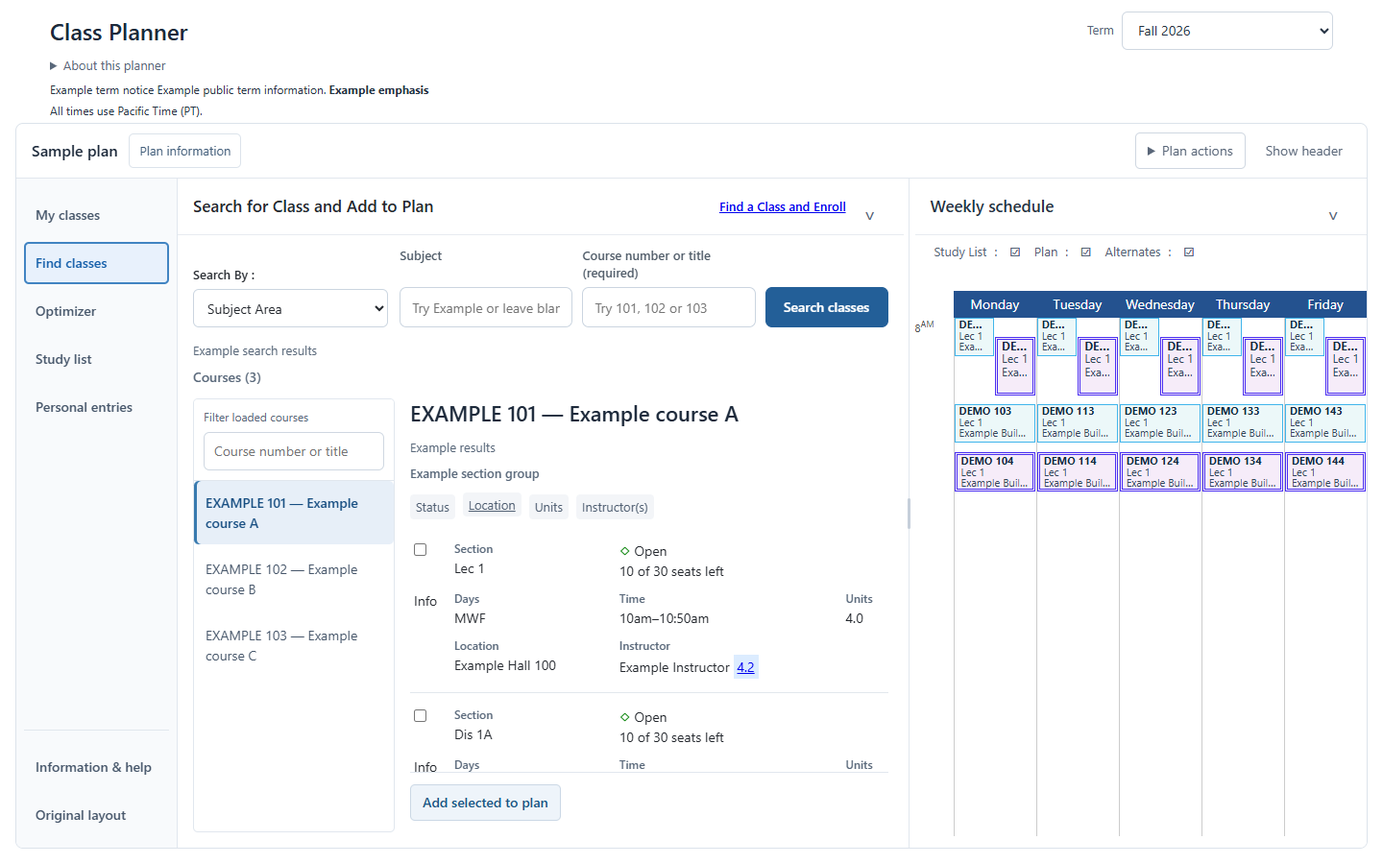
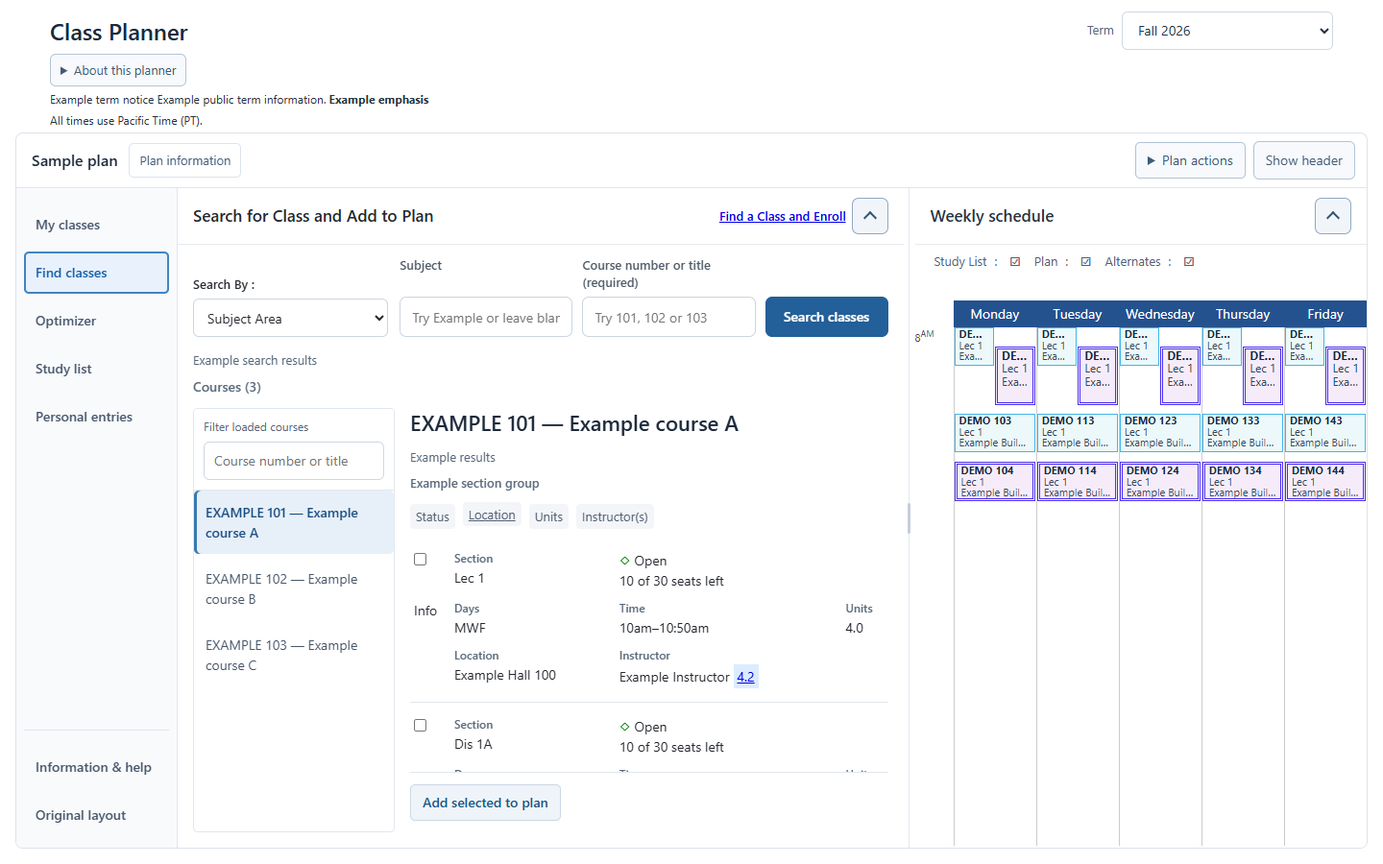
Make planner disclosures and actions visibly clickable (v0.17.8)

diff --git a/site/workspace-preview.html b/site/workspace-preview.html
@@ -1,6 +1,6 @@
 <!DOCTYPE html><html lang="en" data-pl-fictional-preview="true"><head><meta http-equiv="Content-Security-Policy" content="default-src 'none'; script-src 'nonce-pl-fictional-preview'; style-src 'unsafe-inline'; img-src data:; connect-src 'none'; form-action 'none'; base-uri 'none'; object-src 'none'; frame-src 'none'">
 <meta charset="utf-8">
-<title>Better MyUCLA · v0.17.7 fictional preview</title>
+<title>Better MyUCLA · v0.17.8 fictional preview</title>
 <style>
   body { margin:0; background:#fff; color:#4e4e4e; font-family: Verdana, Geneva, sans-serif; font-size:12px; }
   .pagehead { padding:14px 24px; border-bottom:3px solid #0055a6; }
@@ -84,7 +84,7 @@
   #panelSearch .ClassSearchList .data_row:nth-child(even) > [class*="span"] { background:#eaeaea; }
   .ClassSearchList .example-native-rating { display:inline-block; padding:2px 4px; background:#dcecff; }
   .ClassSearchList .icon-unlock::before { content:"◇"; }
[2 lines of base64/hex data omitted]
    Tokens are read off the live Class Planner so the injected controls read as
    part of MyUCLA rather than as a strip bolted on top of it. Measured on the
    real page: section title bars are #2C5E91 with a 7px radius, course titles
@@ -1507,7 +1507,8 @@ section#layoutContentArea.pl-planner-introduction {
   font-size: 24px; font-weight: 600; line-height: 40px;
 }
 .pl-planner-introduction > #div_page_title_section2 { margin: 0 270px 4px 0; }
-.pl-intro-about > summary { display: list-item; width: fit-content; color: #59687a; font-size: 13px; line-height: 24px; cursor: pointer; }
+.pl-intro-about > summary { display: list-item; width: fit-content; box-sizing: border-box; min-height: 34px; padding: 5px 10px; border: 1px solid #b3c3d4; border-radius: 6px; background: #f7f9fc; color: #405b77; font-size: 13px; line-height: 22px; cursor: pointer; }
+.pl-intro-about > summary:hover, .pl-intro-about[open] > summary { border-color: #7895b3; background: #eaf1f9; }
 .pl-intro-about > summary:focus-visible { outline: 2px solid #4184c2; outline-offset: 3px; }
 .pl-intro-about > #page_title_text { margin: 6px 0 8px; padding: 0; font-size: 13px; line-height: 1.5; color: #62738a; }
 .pl-planner-introduction > layout-columnwrapper.col-2MR { display: block; width: 100%; }
@@ -1525,7 +1526,8 @@ section#layoutContentArea.pl-planner-introduction {
   box-sizing: border-box; overflow: auto; margin: 0; padding: 44px 12px 12px;
   border: 1px solid #d9e0e8; border-radius: 10px; background: #fff; box-shadow: 0 8px 30px #20304024;
 }
-.pl-intro-sidebar button.pl-intro-info-close { position: absolute; top: 0; right: 0; width: 44px; height: 44px; margin: 0; padding: 0; border: 0; border-radius: 7px; background: transparent; color: #345577; font: 26px/1 sans-serif; cursor: pointer; }
+.pl-intro-sidebar button.pl-intro-info-close { position: absolute; top: 4px; right: 4px; box-sizing: border-box; width: 44px; height: 44px; margin: 0; padding: 0; border: 1px solid #91a8c0; border-radius: 7px; background: #f1f5fa; color: #315776; font: 26px/1 sans-serif; cursor: pointer; }
+.pl-intro-sidebar button.pl-intro-info-close:hover { border-color: #5f82a6; background: #e4eef9; }
 .pl-intro-info-close:focus-visible { outline: 2px solid #4184c2; outline-offset: -3px; }
 .pl-workspace-host #classPlanHeader { grid-column: 1; grid-row: 1; align-self: center; display: flex; align-items: center; flex-wrap: wrap; gap: 6px 12px; min-width: 0; margin: 0; padding: 10px 16px; color: #1d2a3b; font: 600 16px/1.4 -apple-system,BlinkMacSystemFont,"Segoe UI",sans-serif; }
 .pl-workspace-host #classPlanHeader h2, .pl-workspace-host #classPlanHeader h3, .pl-workspace-host #classPlanHeader h4 { margin: 0; color: inherit; font: inherit; }
@@ -1545,7 +1547,7 @@ section#layoutContentArea.pl-planner-introduction {
   background: #f0f3f6; color: #4b5b6f; font: 14px/1.4 -apple-system,BlinkMacSystemFont,"Segoe UI",sans-serif; cursor: pointer;
 }
 .pl-workspace-top button:hover, .pl-workspace-top summary:hover { background: #eaf0f6; }
-.pl-workspace-top > button, .pl-workspace-top > details > summary { background: transparent; color: #596678; }
+.pl-workspace-top > button, .pl-workspace-top > details > summary { border-color: #b3c3d4; background: #f7f9fc; color: #405b77; }
 .pl-workspace-top button:focus-visible, .pl-pane-toggle:focus-visible, .pl-browser-toolbar button:focus-visible, .pl-browser-index button:focus-visible { outline: 2px solid #4184c2; outline-offset: 2px; }
 .pl-workspace-shell { grid-column: 1 / -1; grid-row: 3; display: grid; grid-template-columns: 168px minmax(0,1fr); min-height: 0; min-width: 0; border-top: 1px solid #e1e7ee; }
 .pl-workspace-nav { display: flex; flex-direction: column; min-height: 0; padding: 16px 8px 12px; box-sizing: border-box; background: #f8fafc; border-right: 1px solid #e1e7ee; }
@@ -1584,9 +1586,18 @@ section#layoutContentArea.pl-planner-introduction {
 }
 .pl-workspace-main > section > .pl-pane-title > .popover.clickover > .arrow { display: none; }
 .pl-pane-title > button.planSectionToggle { flex: 1; min-width: 0; min-height: 38px; padding: 0; text-align: left; color: inherit; background: transparent; border: 0; font: inherit; }
+.pl-pane-title > button.planSectionHelpTip { box-sizing: border-box; min-width: 32px; min-height: 32px; margin: 0; padding: 5px; border: 1px solid #b3c3d4; border-radius: 6px; background: #f7f9fc; color: #405b77; cursor: pointer; }
+.pl-pane-title > button.planSectionHelpTip:hover { border-color: #7895b3; background: #eaf1f9; }
+.pl-pane-title > button.planSectionHelpTip:focus-visible { outline: 2px solid #3477b5; outline-offset: 2px; }
 .pl-pane-title > button.planSectionToggle > .icon-minus-sign, .pl-pane-title > button.planSectionToggle > .icon-plus-sign { display: none; }
-.classPlannerWrapper .pl-pane-title > button.pl-pane-toggle { flex: none; display: inline-flex; align-items: center; justify-content: center; width: 38px; height: 38px; padding: 0; margin-left: auto; border: 0; border-radius: 6px; background: transparent; color: #59687a; font: 22px/1 -apple-system,BlinkMacSystemFont,"Segoe UI",sans-serif; cursor: pointer; }
-.pl-pane-title > button.pl-pane-toggle:hover { background: #edf2f7; }
+.classPlannerWrapper .pl-pane-title > button.pl-pane-toggle { flex: none; display: inline-flex; align-items: center; justify-content: center; box-sizing: border-box; width: 38px; height: 38px; padding: 0; margin-left: auto; border: 1px solid #91a8c0; border-radius: 7px; background: #f1f5fa; color: #315776; font-size: 0; cursor: pointer; }
+/* Draw a consistent chevron instead of the tiny font-dependent down character.
+   The real button retains its accessible label, title and expanded state. */
+.classPlannerWrapper .pl-pane-title > button.pl-pane-toggle::before { content: ""; width: 8px; height: 8px; border-right: 2px solid currentColor; border-bottom: 2px solid currentColor; transform: translateY(-2px) rotate(45deg); }
+.classPlannerWrapper .pl-pane-title > button.pl-pane-toggle[aria-expanded="true"]::before { transform: translateY(2px) rotate(225deg); }
+.classPlannerWrapper .pl-pane-title > button.pl-pane-toggle:hover { border-color: #5f82a6; background: #e4eef9; color: #174e82; }
+.classPlannerWrapper .pl-pane-title > button.pl-pane-toggle:active { background: #d5e5f5; }
+.classPlannerWrapper .pl-pane-title > button.pl-pane-toggle:focus-visible { outline: 3px solid #3477b5; outline-offset: 2px; }
 .pl-pane-collapsed > .pl-pane-body { display: none !important; }
 .pl-workspace-plan.pl-pane-open > .pl-pane-body:not(.hidden):not([hidden]), .pl-workspace-search.pl-pane-open > .pl-pane-body:not(.hidden):not([hidden]), .pl-workspace-calendar.pl-pane-open > .pl-pane-body:not(.hidden):not([hidden]) { display: block; }
 .pl-workspace-main > .pl-module-active:not(.pl-workspace-plan):not(.pl-workspace-search) { overflow: auto; }
@@ -1594,7 +1605,9 @@ section#layoutContentArea.pl-planner-introduction {
 .pl-workspace-information-placeholder { padding: 24px; color: #59687a; }
 .pl-workspace-information-placeholder:not(.pl-module-active) { display: none; }
 /* Opaque secondary modules retain their own server-backed disclosures. */
-.pl-workspace-main > :is(.classPlanner_ClassOptimizerSection,.classPlanner_EnrolledNotInPlanSection,.classPlanner_PersonalTimeBlocksSection) > .pl-pane-title > button.planSectionToggle { display: flex; align-items: center; gap: 10px; cursor: pointer; order: 0; }
+.pl-workspace-main > :is(.classPlanner_ClassOptimizerSection,.classPlanner_EnrolledNotInPlanSection,.classPlanner_PersonalTimeBlocksSection) > .pl-pane-title > button.planSectionToggle { display: flex; align-items: center; gap: 10px; box-sizing: border-box; padding: 7px 10px; border: 1px solid #b3c3d4; border-radius: 6px; background: #f7f9fc; cursor: pointer; order: 0; }
+.pl-workspace-main > :is(.classPlanner_ClassOptimizerSection,.classPlanner_EnrolledNotInPlanSection,.classPlanner_PersonalTimeBlocksSection) > .pl-pane-title > button.planSectionToggle:hover { border-color: #7895b3; background: #eaf1f9; }
+.pl-workspace-main > :is(.classPlanner_ClassOptimizerSection,.classPlanner_EnrolledNotInPlanSection,.classPlanner_PersonalTimeBlocksSection) > .pl-pane-title > button.planSectionToggle:focus-visible { outline: 2px solid #3477b5; outline-offset: 2px; }
 .pl-workspace-main > :is(.classPlanner_ClassOptimizerSection,.classPlanner_EnrolledNotInPlanSection,.classPlanner_PersonalTimeBlocksSection) > .pl-pane-title > button.planSectionToggle > :is(.icon-plus-sign,.icon-minus-sign) { display: inline-block; flex: none; color: #52677e; }
 .pl-workspace-main > :is(.classPlanner_ClassOptimizerSection,.classPlanner_EnrolledNotInPlanSection,.classPlanner_PersonalTimeBlocksSection) > .pl-pane-title > button.planSectionHelpTip { order: 1; }
 .pl-workspace-main > .classPlanner_ClassOptimizerSection > #panelOptimizer { box-sizing: border-box; padding: 20px; }
@@ -1676,9 +1689,11 @@ section#layoutContentArea.pl-planner-introduction {
 .pl-workspace-plan tbody.courseItem > tr:nth-child(2), .pl-workspace-plan tbody.courseItem > tr:nth-child(3) { display: none; }
 .pl-workspace-plan button.pl-workspace-detail-button, .pl-workspace-plan button.pl-workspace-actions-button { box-sizing: border-box; min-height: 38px; padding: 8px 10px; margin: 0; border: 1px solid #cbd8e5; border-radius: 5px; font: 500 13px/1.4 -apple-system,BlinkMacSystemFont,"Segoe UI",sans-serif; cursor: pointer; }
 .pl-workspace-plan button.pl-workspace-detail-button { color: #1c5688; background: #eef4fa; }
-.pl-workspace-plan button.pl-workspace-actions-button { margin-left: auto; color: #59687a; border-color: transparent; background: transparent; }
+.pl-workspace-plan button.pl-workspace-actions-button { display: inline-flex; align-items: center; justify-content: center; gap: 8px; margin-left: auto; color: #405b77; border-color: #b3c3d4; background: #f7f9fc; }
+.pl-workspace-plan button.pl-workspace-actions-button::after { content: ""; flex: none; width: 6px; height: 6px; border-right: 1.5px solid currentColor; border-bottom: 1.5px solid currentColor; transform: translateY(-2px) rotate(45deg); }
+.pl-workspace-plan button.pl-workspace-actions-button[aria-expanded="true"]::after { transform: translateY(2px) rotate(225deg); }
 .pl-workspace-plan button.pl-workspace-detail-button:hover, .pl-workspace-plan button.pl-workspace-detail-button[aria-expanded="true"] { background: #dfebf6; border-color: #adc5da; }
-.pl-workspace-plan button.pl-workspace-actions-button:hover, .pl-workspace-plan button.pl-workspace-actions-button[aria-expanded="true"] { background: #f0f3f6; color: #263344; }
+.pl-workspace-plan button.pl-workspace-actions-button:hover, .pl-workspace-plan button.pl-workspace-actions-button[aria-expanded="true"] { border-color: #7895b3; background: #eaf1f9; color: #174e82; }
 .pl-workspace-plan button.pl-workspace-detail-button:focus-visible, .pl-workspace-plan button.pl-workspace-actions-button:focus-visible { outline: 2px solid #4184c2; outline-offset: 2px; }
 .pl-workspace-plan .pl-conflict-badge, .pl-workspace-plan .pl-tag-badge { white-space: normal; max-width: 100%; margin-left: 0; font: 12px/1.5 -apple-system,BlinkMacSystemFont,"Segoe UI",sans-serif; }
 .pl-workspace-plan #plannerSectionClip { gap: 4px; }
@@ -1855,6 +1870,7 @@ section#layoutContentArea.pl-planner-introduction {
 .pl-section-field input[type="checkbox"], .pl-section-field input[type="radio"] { width: auto !important; height: auto; margin: 0; }
 .pl-workspace-plan-actions { position: relative; flex: none; margin: 0; }
 .pl-workspace-plan-actions > summary { min-height: 38px; padding: 8px 12px; box-sizing: border-box; border: 1px solid #cfd7e1; border-radius: 5px; background: #fff; color: #46566a; cursor: pointer; }
+.pl-workspace-plan-actions[open] > summary { border-color: #7895b3; background: #eaf1f9; color: #174e82; }
 .pl-workspace-plan-actions > .plannerTopMenuLinks { display: none; }
 .pl-workspace-plan-actions[open] > .plannerTopMenuLinks { display: flex; flex-direction: column; gap: 4px; position: absolute; top: calc(100% + 4px); right: 0; z-index: 180; width: 220px; max-width: calc(100vw - 48px); max-height: var(--pl-plan-menu-max-height,60dvh); overflow: auto; overscroll-behavior: contain; padding: 8px; margin: 0; box-sizing: border-box; border: 1px solid #dce3eb; border-radius: 6px; background: #fff; box-shadow: 0 8px 24px #2030401a; text-align: left; }
 .pl-workspace-plan-actions .plannerTopMenuLinks > :is(a,button) { display: block; flex: none; min-height: 36px; padding: 8px 10px; box-sizing: border-box; color: #345c85; font: 14px/1.4 -apple-system,BlinkMacSystemFont,"Segoe UI",sans-serif; text-align: left; }
@@ -1880,13 +1896,15 @@ section#layoutContentArea.pl-planner-introduction {
 @media print { .pl-workspace-host > .pl-plan-action-surface { display: none !important; } }
 .pl-workspace-preview { display: flex; flex-direction: column; position: relative; box-sizing: border-box; height: auto; padding: 0 0 16px; margin-bottom: 8px; background: #fff; border-bottom: 1px solid #e7ebf0; }
 .pl-workspace-preview[hidden] { display: none; }
-.pl-workspace-preview-head { padding-right: 38px; flex: none; max-height: none; }
+.pl-workspace-preview-head { padding-right: 56px; flex: none; max-height: none; }
 .pl-workspace-preview-head h2 { margin: 0 0 12px; color: #1d2a3b; font: 600 20px/1.35 -apple-system,BlinkMacSystemFont,"Segoe UI",sans-serif; }
-.pl-workspace-preview-head summary { cursor: pointer; color: #42617f; font-size: 14px; }
+.pl-workspace-preview-head summary { box-sizing: border-box; width: fit-content; min-height: 34px; padding: 5px 10px; border: 1px solid #b3c3d4; border-radius: 6px; background: #f7f9fc; cursor: pointer; color: #405b77; font-size: 14px; line-height: 22px; }
+.pl-workspace-preview-head summary:hover, .pl-workspace-preview-head details[open] > summary { border-color: #7895b3; background: #eaf1f9; }
+.pl-workspace-preview-head summary:focus-visible { outline: 2px solid #3477b5; outline-offset: 2px; }
 .pl-workspace-preview-head p { margin: 8px 0 0; font-size: 13px; line-height: 1.5; color: #59687a; }
 .pl-workspace-preview-content { display: none; }
-.pl-workspace-preview button.pl-workspace-preview-close { position: absolute; top: 2px; right: 2px; display: flex; align-items: center; justify-content: center; box-sizing: border-box; width: 44px; height: 44px; margin: 0; padding: 0; border: 0; border-radius: 7px; color: #345577; background: transparent; font: 26px/1 -apple-system,BlinkMacSystemFont,"Segoe UI",sans-serif; cursor: pointer; }
-.pl-workspace-preview button.pl-workspace-preview-close:hover { background: #edf2f7; }
+.pl-workspace-preview button.pl-workspace-preview-close { position: absolute; top: 2px; right: 2px; display: flex; align-items: center; justify-content: center; box-sizing: border-box; width: 44px; height: 44px; margin: 0; padding: 0; border: 1px solid #91a8c0; border-radius: 7px; color: #315776; background: #f1f5fa; font: 26px/1 -apple-system,BlinkMacSystemFont,"Segoe UI",sans-serif; cursor: pointer; }
+.pl-workspace-preview button.pl-workspace-preview-close:hover { border-color: #5f82a6; background: #e4eef9; }
 .pl-workspace-preview button.pl-workspace-preview-close:focus-visible { outline: 2px solid #4184c2; outline-offset: -3px; }
 .pl-workspace-plan tbody.pl-workspace-preview-card { transform: none !important; background: #f5f8fc; box-shadow: inset 3px 0 #4184c2; }
 .pl-workspace-plan .pl-plan-root tbody.courseItem.pl-preview-docked > tr:nth-child(3) {
@@ -1962,6 +1980,13 @@ section#layoutContentArea.pl-planner-introduction {
 .pl-workspace-main[data-pl-main-size="narrow"] .pl-workspace-plan .pl-bar { width: 100%; margin: 0; order: 2; }
 .pl-workspace-main[data-pl-main-size="narrow"] .pl-workspace-plan .pl-pane-toggle { order: 1; }
 .pl-workspace-main[data-pl-main-size="narrow"] .pl-workspace-plan .pl-plan-root tbody.courseItem.pl-preview-docked > tr:nth-child(3) { padding: 14px; }
+@container pl-search (max-width: 420px) {
+  .pl-workspace-search > .pl-pane-title { display: grid; grid-template-columns: minmax(0,1fr) 38px; gap: 8px 10px; }
+  .pl-workspace-search > .pl-pane-title > button.planSectionToggle { grid-column: 1; grid-row: 1; }
+  .pl-workspace-search > .pl-pane-title > button.pl-pane-toggle { grid-column: 2; grid-row: 1; }
+  .pl-workspace-search > .pl-pane-title > a { grid-column: 1; grid-row: 2; margin: 0; justify-self: start; }
+  .pl-workspace-search > .pl-pane-title > button.planSectionHelpTip { grid-column: 2; grid-row: 2; justify-self: center; }
+}
 @container pl-search (max-width: 699px) {
   .pl-workspace-search .ClassSearchControls.row { grid-template-columns: minmax(120px,.7fr) minmax(0,1.6fr); gap: 10px; }
   .pl-workspace-search .searchFieldPanel { flex-wrap: wrap; }
@@ -2057,7 +2082,7 @@ section#layoutContentArea.pl-planner-introduction {
   .pl-browser-list { max-height: none; }
   .pl-browser-result-actions { position: static; }
 }
[2 lines of base64/hex data omitted]
   #preview-notice { display:flex; flex-wrap:wrap; gap:12px; align-items:center; justify-content:center; box-sizing:border-box; padding:5px 12px; border-bottom:1px solid #dbe3ec; background:#f8fafc; color:#526174; font:11px/1.5 system-ui,sans-serif; }
   #preview-notice button { padding:0; border:0; background:none; color:#24528f; font:inherit; text-decoration:underline; cursor:pointer; }
   #preview-feedback { position:fixed; bottom:48px; left:50%; transform:translateX(-50%); z-index:2147483601; width:max-content; max-width:min(520px,calc(100vw - 32px)); padding:12px 16px; border:1px solid #cbd5e1; border-radius:9px; background:#fff; box-shadow:0 4px 20px #0002; color:#334155; font:13px/1.5 system-ui,sans-serif; }
@@ -2075,7 +2100,7 @@ section#layoutContentArea.pl-planner-introduction {
   }
   @media print { #preview-notice, #preview-feedback { display:none !important; } }
 </style></head>
-<body><aside id="preview-notice" aria-label="Fictional preview information"><span>Fictional preview · v0.17.7</span><button type="button" id="preview-about">What works here?</button></aside><layout-headerwrap style="display: block;"><nav id="fixture-native-navigation" aria-label="Example UCLA navigation" style="display: flex; align-items: center; gap: 24px; height: 166px; padding: 0px 24px; background: rgb(36, 82, 143); color: white; box-sizing: border-box;"><strong>UCLA</strong><a href="#">Home</a><a href="#">Academics</a><button type="button">Menu</button></nav></layout-headerwrap>
+<body><aside id="preview-notice" aria-label="Fictional preview information"><span>Fictional preview · v0.17.8</span><button type="button" id="preview-about">What works here?</button></aside><layout-headerwrap style="display: block;"><nav id="fixture-native-navigation" aria-label="Example UCLA navigation" style="display: flex; align-items: center; gap: 24px; height: 166px; padding: 0px 24px; background: rgb(36, 82, 143); color: white; box-sizing: border-box;"><strong>UCLA</strong><a href="#">Home</a><a href="#">Academics</a><button type="button">Menu</button></nav></layout-headerwrap>
 <form id="aspnetForm" method="post" action="https://be.my.ucla.edu/ClassPlanner/ClassPlan.aspx" autocomplete="off">
 
   <div class="maincontentpanel" id="main_wrapper">

diff --git a/public/injected.css b/public/injected.css
@@ -1421,7 +1421,8 @@ section#layoutContentArea.pl-planner-introduction {
   font-size: 24px; font-weight: 600; line-height: 40px;
 }
 .pl-planner-introduction > #div_page_title_section2 { margin: 0 270px 4px 0; }
-.pl-intro-about > summary { display: list-item; width: fit-content; color: #59687a; font-size: 13px; line-height: 24px; cursor: pointer; }
+.pl-intro-about > summary { display: list-item; width: fit-content; box-sizing: border-box; min-height: 34px; padding: 5px 10px; border: 1px solid #b3c3d4; border-radius: 6px; background: #f7f9fc; color: #405b77; font-size: 13px; line-height: 22px; cursor: pointer; }
+.pl-intro-about > summary:hover, .pl-intro-about[open] > summary { border-color: #7895b3; background: #eaf1f9; }
 .pl-intro-about > summary:focus-visible { outline: 2px solid #4184c2; outline-offset: 3px; }
 .pl-intro-about > #page_title_text { margin: 6px 0 8px; padding: 0; font-size: 13px; line-height: 1.5; color: #62738a; }
 .pl-planner-introduction > layout-columnwrapper.col-2MR { display: block; width: 100%; }
@@ -1439,7 +1440,8 @@ section#layoutContentArea.pl-planner-introduction {
   box-sizing: border-box; overflow: auto; margin: 0; padding: 44px 12px 12px;
   border: 1px solid #d9e0e8; border-radius: 10px; background: #fff; box-shadow: 0 8px 30px #20304024;
 }
-.pl-intro-sidebar button.pl-intro-info-close { position: absolute; top: 0; right: 0; width: 44px; height: 44px; margin: 0; padding: 0; border: 0; border-radius: 7px; background: transparent; color: #345577; font: 26px/1 sans-serif; cursor: pointer; }
+.pl-intro-sidebar button.pl-intro-info-close { position: absolute; top: 4px; right: 4px; box-sizing: border-box; width: 44px; height: 44px; margin: 0; padding: 0; border: 1px solid #91a8c0; border-radius: 7px; background: #f1f5fa; color: #315776; font: 26px/1 sans-serif; cursor: pointer; }
+.pl-intro-sidebar button.pl-intro-info-close:hover { border-color: #5f82a6; background: #e4eef9; }
 .pl-intro-info-close:focus-visible { outline: 2px solid #4184c2; outline-offset: -3px; }
 .pl-workspace-host #classPlanHeader { grid-column: 1; grid-row: 1; align-self: center; display: flex; align-items: center; flex-wrap: wrap; gap: 6px 12px; min-width: 0; margin: 0; padding: 10px 16px; color: #1d2a3b; font: 600 16px/1.4 -apple-system,BlinkMacSystemFont,"Segoe UI",sans-serif; }
 .pl-workspace-host #classPlanHeader h2, .pl-workspace-host #classPlanHeader h3, .pl-workspace-host #classPlanHeader h4 { margin: 0; color: inherit; font: inherit; }
@@ -1459,7 +1461,7 @@ section#layoutContentArea.pl-planner-introduction {
   background: #f0f3f6; color: #4b5b6f; font: 14px/1.4 -apple-system,BlinkMacSystemFont,"Segoe UI",sans-serif; cursor: pointer;
 }
 .pl-workspace-top button:hover, .pl-workspace-top summary:hover { background: #eaf0f6; }
-.pl-workspace-top > button, .pl-workspace-top > details > summary { background: transparent; color: #596678; }
+.pl-workspace-top > button, .pl-workspace-top > details > summary { border-color: #b3c3d4; background: #f7f9fc; color: #405b77; }
 .pl-workspace-top button:focus-visible, .pl-pane-toggle:focus-visible, .pl-browser-toolbar button:focus-visible, .pl-browser-index button:focus-visible { outline: 2px solid #4184c2; outline-offset: 2px; }
 .pl-workspace-shell { grid-column: 1 / -1; grid-row: 3; display: grid; grid-template-columns: 168px minmax(0,1fr); min-height: 0; min-width: 0; border-top: 1px solid #e1e7ee; }
 .pl-workspace-nav { display: flex; flex-direction: column; min-height: 0; padding: 16px 8px 12px; box-sizing: border-box; background: #f8fafc; border-right: 1px solid #e1e7ee; }
@@ -1498,9 +1500,18 @@ section#layoutContentArea.pl-planner-introduction {
 }
 .pl-workspace-main > section > .pl-pane-title > .popover.clickover > .arrow { display: none; }
 .pl-pane-title > button.planSectionToggle { flex: 1; min-width: 0; min-height: 38px; padding: 0; text-align: left; color: inherit; background: transparent; border: 0; font: inherit; }
+.pl-pane-title > button.planSectionHelpTip { box-sizing: border-box; min-width: 32px; min-height: 32px; margin: 0; padding: 5px; border: 1px solid #b3c3d4; border-radius: 6px; background: #f7f9fc; color: #405b77; cursor: pointer; }
+.pl-pane-title > button.planSectionHelpTip:hover { border-color: #7895b3; background: #eaf1f9; }
+.pl-pane-title > button.planSectionHelpTip:focus-visible { outline: 2px solid #3477b5; outline-offset: 2px; }
 .pl-pane-title > button.planSectionToggle > .icon-minus-sign, .pl-pane-title > button.planSectionToggle > .icon-plus-sign { display: none; }
-.classPlannerWrapper .pl-pane-title > button.pl-pane-toggle { flex: none; display: inline-flex; align-items: center; justify-content: center; width: 38px; height: 38px; padding: 0; margin-left: auto; border: 0; border-radius: 6px; background: transparent; color: #59687a; font: 22px/1 -apple-system,BlinkMacSystemFont,"Segoe UI",sans-serif; cursor: pointer; }
-.pl-pane-title > button.pl-pane-toggle:hover { background: #edf2f7; }
+.classPlannerWrapper .pl-pane-title > button.pl-pane-toggle { flex: none; display: inline-flex; align-items: center; justify-content: center; box-sizing: border-box; width: 38px; height: 38px; padding: 0; margin-left: auto; border: 1px solid #91a8c0; border-radius: 7px; background: #f1f5fa; color: #315776; font-size: 0; cursor: pointer; }
+/* Draw a consistent chevron instead of the tiny font-dependent down character.
+   The real button retains its accessible label, title and expanded state. */
+.classPlannerWrapper .pl-pane-title > button.pl-pane-toggle::before { content: ""; width: 8px; height: 8px; border-right: 2px solid currentColor; border-bottom: 2px solid currentColor; transform: translateY(-2px) rotate(45deg); }
+.classPlannerWrapper .pl-pane-title > button.pl-pane-toggle[aria-expanded="true"]::before { transform: translateY(2px) rotate(225deg); }
+.classPlannerWrapper .pl-pane-title > button.pl-pane-toggle:hover { border-color: #5f82a6; background: #e4eef9; color: #174e82; }
+.classPlannerWrapper .pl-pane-title > button.pl-pane-toggle:active { background: #d5e5f5; }
+.classPlannerWrapper .pl-pane-title > button.pl-pane-toggle:focus-visible { outline: 3px solid #3477b5; outline-offset: 2px; }
 .pl-pane-collapsed > .pl-pane-body { display: none !important; }
 .pl-workspace-plan.pl-pane-open > .pl-pane-body:not(.hidden):not([hidden]), .pl-workspace-search.pl-pane-open > .pl-pane-body:not(.hidden):not([hidden]), .pl-workspace-calendar.pl-pane-open > .pl-pane-body:not(.hidden):not([hidden]) { display: block; }
 .pl-workspace-main > .pl-module-active:not(.pl-workspace-plan):not(.pl-workspace-search) { overflow: auto; }
@@ -1508,7 +1519,9 @@ section#layoutContentArea.pl-planner-introduction {
 .pl-workspace-information-placeholder { padding: 24px; color: #59687a; }
 .pl-workspace-information-placeholder:not(.pl-module-active) { display: none; }
 /* Opaque secondary modules retain their own server-backed disclosures. */
-.pl-workspace-main > :is(.classPlanner_ClassOptimizerSection,.classPlanner_EnrolledNotInPlanSection,.classPlanner_PersonalTimeBlocksSection) > .pl-pane-title > button.planSectionToggle { display: flex; align-items: center; gap: 10px; cursor: pointer; order: 0; }
+.pl-workspace-main > :is(.classPlanner_ClassOptimizerSection,.classPlanner_EnrolledNotInPlanSection,.classPlanner_PersonalTimeBlocksSection) > .pl-pane-title > button.planSectionToggle { display: flex; align-items: center; gap: 10px; box-sizing: border-box; padding: 7px 10px; border: 1px solid #b3c3d4; border-radius: 6px; background: #f7f9fc; cursor: pointer; order: 0; }
+.pl-workspace-main > :is(.classPlanner_ClassOptimizerSection,.classPlanner_EnrolledNotInPlanSection,.classPlanner_PersonalTimeBlocksSection) > .pl-pane-title > button.planSectionToggle:hover { border-color: #7895b3; background: #eaf1f9; }
+.pl-workspace-main > :is(.classPlanner_ClassOptimizerSection,.classPlanner_EnrolledNotInPlanSection,.classPlanner_PersonalTimeBlocksSection) > .pl-pane-title > button.planSectionToggle:focus-visible { outline: 2px solid #3477b5; outline-offset: 2px; }
 .pl-workspace-main > :is(.classPlanner_ClassOptimizerSection,.classPlanner_EnrolledNotInPlanSection,.classPlanner_PersonalTimeBlocksSection) > .pl-pane-title > button.planSectionToggle > :is(.icon-plus-sign,.icon-minus-sign) { display: inline-block; flex: none; color: #52677e; }
 .pl-workspace-main > :is(.classPlanner_ClassOptimizerSection,.classPlanner_EnrolledNotInPlanSection,.classPlanner_PersonalTimeBlocksSection) > .pl-pane-title > button.planSectionHelpTip { order: 1; }
 .pl-workspace-main > .classPlanner_ClassOptimizerSection > #panelOptimizer { box-sizing: border-box; padding: 20px; }
@@ -1590,9 +1603,11 @@ section#layoutContentArea.pl-planner-introduction {
 .pl-workspace-plan tbody.courseItem > tr:nth-child(2), .pl-workspace-plan tbody.courseItem > tr:nth-child(3) { display: none; }
 .pl-workspace-plan button.pl-workspace-detail-button, .pl-workspace-plan button.pl-workspace-actions-button { box-sizing: border-box; min-height: 38px; padding: 8px 10px; margin: 0; border: 1px solid #cbd8e5; border-radius: 5px; font: 500 13px/1.4 -apple-system,BlinkMacSystemFont,"Segoe UI",sans-serif; cursor: pointer; }
 .pl-workspace-plan button.pl-workspace-detail-button { color: #1c5688; background: #eef4fa; }
-.pl-workspace-plan button.pl-workspace-actions-button { margin-left: auto; color: #59687a; border-color: transparent; background: transparent; }
+.pl-workspace-plan button.pl-workspace-actions-button { display: inline-flex; align-items: center; justify-content: center; gap: 8px; margin-left: auto; color: #405b77; border-color: #b3c3d4; background: #f7f9fc; }
+.pl-workspace-plan button.pl-workspace-actions-button::after { content: ""; flex: none; width: 6px; height: 6px; border-right: 1.5px solid currentColor; border-bottom: 1.5px solid currentColor; transform: translateY(-2px) rotate(45deg); }
+.pl-workspace-plan button.pl-workspace-actions-button[aria-expanded="true"]::after { transform: translateY(2px) rotate(225deg); }
 .pl-workspace-plan button.pl-workspace-detail-button:hover, .pl-workspace-plan button.pl-workspace-detail-button[aria-expanded="true"] { background: #dfebf6; border-color: #adc5da; }
-.pl-workspace-plan button.pl-workspace-actions-button:hover, .pl-workspace-plan button.pl-workspace-actions-button[aria-expanded="true"] { background: #f0f3f6; color: #263344; }
+.pl-workspace-plan button.pl-workspace-actions-button:hover, .pl-workspace-plan button.pl-workspace-actions-button[aria-expanded="true"] { border-color: #7895b3; background: #eaf1f9; color: #174e82; }
 .pl-workspace-plan button.pl-workspace-detail-button:focus-visible, .pl-workspace-plan button.pl-workspace-actions-button:focus-visible { outline: 2px solid #4184c2; outline-offset: 2px; }
 .pl-workspace-plan .pl-conflict-badge, .pl-workspace-plan .pl-tag-badge { white-space: normal; max-width: 100%; margin-left: 0; font: 12px/1.5 -apple-system,BlinkMacSystemFont,"Segoe UI",sans-serif; }
 .pl-workspace-plan #plannerSectionClip { gap: 4px; }
@@ -1769,6 +1784,7 @@ section#layoutContentArea.pl-planner-introduction {
 .pl-section-field input[type="checkbox"], .pl-section-field input[type="radio"] { width: auto !important; height: auto; margin: 0; }
 .pl-workspace-plan-actions { position: relative; flex: none; margin: 0; }
 .pl-workspace-plan-actions > summary { min-height: 38px; padding: 8px 12px; box-sizing: border-box; border: 1px solid #cfd7e1; border-radius: 5px; background: #fff; color: #46566a; cursor: pointer; }
+.pl-workspace-plan-actions[open] > summary { border-color: #7895b3; background: #eaf1f9; color: #174e82; }
 .pl-workspace-plan-actions > .plannerTopMenuLinks { display: none; }
 .pl-workspace-plan-actions[open] > .plannerTopMenuLinks { display: flex; flex-direction: column; gap: 4px; position: absolute; top: calc(100% + 4px); right: 0; z-index: 180; width: 220px; max-width: calc(100vw - 48px); max-height: var(--pl-plan-menu-max-height,60dvh); overflow: auto; overscroll-behavior: contain; padding: 8px; margin: 0; box-sizing: border-box; border: 1px solid #dce3eb; border-radius: 6px; background: #fff; box-shadow: 0 8px 24px #2030401a; text-align: left; }
 .pl-workspace-plan-actions .plannerTopMenuLinks > :is(a,button) { display: block; flex: none; min-height: 36px; padding: 8px 10px; box-sizing: border-box; color: #345c85; font: 14px/1.4 -apple-system,BlinkMacSystemFont,"Segoe UI",sans-serif; text-align: left; }
@@ -1794,13 +1810,15 @@ section#layoutContentArea.pl-planner-introduction {
 @media print { .pl-workspace-host > .pl-plan-action-surface { display: none !important; } }
 .pl-workspace-preview { display: flex; flex-direction: column; position: relative; box-sizing: border-box; height: auto; padding: 0 0 16px; margin-bottom: 8px; background: #fff; border-bottom: 1px solid #e7ebf0; }
 .pl-workspace-preview[hidden] { display: none; }
-.pl-workspace-preview-head { padding-right: 38px; flex: none; max-height: none; }
+.pl-workspace-preview-head { padding-right: 56px; flex: none; max-height: none; }
 .pl-workspace-preview-head h2 { margin: 0 0 12px; color: #1d2a3b; font: 600 20px/1.35 -apple-system,BlinkMacSystemFont,"Segoe UI",sans-serif; }
-.pl-workspace-preview-head summary { cursor: pointer; color: #42617f; font-size: 14px; }
+.pl-workspace-preview-head summary { box-sizing: border-box; width: fit-content; min-height: 34px; padding: 5px 10px; border: 1px solid #b3c3d4; border-radius: 6px; background: #f7f9fc; cursor: pointer; color: #405b77; font-size: 14px; line-height: 22px; }
+.pl-workspace-preview-head summary:hover, .pl-workspace-preview-head details[open] > summary { border-color: #7895b3; background: #eaf1f9; }
+.pl-workspace-preview-head summary:focus-visible { outline: 2px solid #3477b5; outline-offset: 2px; }
 .pl-workspace-preview-head p { margin: 8px 0 0; font-size: 13px; line-height: 1.5; color: #59687a; }
 .pl-workspace-preview-content { display: none; }
-.pl-workspace-preview button.pl-workspace-preview-close { position: absolute; top: 2px; right: 2px; display: flex; align-items: center; justify-content: center; box-sizing: border-box; width: 44px; height: 44px; margin: 0; padding: 0; border: 0; border-radius: 7px; color: #345577; background: transparent; font: 26px/1 -apple-system,BlinkMacSystemFont,"Segoe UI",sans-serif; cursor: pointer; }
-.pl-workspace-preview button.pl-workspace-preview-close:hover { background: #edf2f7; }
+.pl-workspace-preview button.pl-workspace-preview-close { position: absolute; top: 2px; right: 2px; display: flex; align-items: center; justify-content: center; box-sizing: border-box; width: 44px; height: 44px; margin: 0; padding: 0; border: 1px solid #91a8c0; border-radius: 7px; color: #315776; background: #f1f5fa; font: 26px/1 -apple-system,BlinkMacSystemFont,"Segoe UI",sans-serif; cursor: pointer; }
+.pl-workspace-preview button.pl-workspace-preview-close:hover { border-color: #5f82a6; background: #e4eef9; }
 .pl-workspace-preview button.pl-workspace-preview-close:focus-visible { outline: 2px solid #4184c2; outline-offset: -3px; }
 .pl-workspace-plan tbody.pl-workspace-preview-card { transform: none !important; background: #f5f8fc; box-shadow: inset 3px 0 #4184c2; }
 .pl-workspace-plan .pl-plan-root tbody.courseItem.pl-preview-docked > tr:nth-child(3) {
@@ -1876,6 +1894,13 @@ section#layoutContentArea.pl-planner-introduction {
 .pl-workspace-main[data-pl-main-size="narrow"] .pl-workspace-plan .pl-bar { width: 100%; margin: 0; order: 2; }
 .pl-workspace-main[data-pl-main-size="narrow"] .pl-workspace-plan .pl-pane-toggle { order: 1; }
 .pl-workspace-main[data-pl-main-size="narrow"] .pl-workspace-plan .pl-plan-root tbody.courseItem.pl-preview-docked > tr:nth-child(3) { padding: 14px; }
+@container pl-search (max-width: 420px) {
+  .pl-workspace-search > .pl-pane-title { display: grid; grid-template-columns: minmax(0,1fr) 38px; gap: 8px 10px; }
+  .pl-workspace-search > .pl-pane-title > button.planSectionToggle { grid-column: 1; grid-row: 1; }
+  .pl-workspace-search > .pl-pane-title > button.pl-pane-toggle { grid-column: 2; grid-row: 1; }
+  .pl-workspace-search > .pl-pane-title > a { grid-column: 1; grid-row: 2; margin: 0; justify-self: start; }
+  .pl-workspace-search > .pl-pane-title > button.planSectionHelpTip { grid-column: 2; grid-row: 2; justify-self: center; }
+}
 @container pl-search (max-width: 699px) {
   .pl-workspace-search .ClassSearchControls.row { grid-template-columns: minmax(120px,.7fr) minmax(0,1.6fr); gap: 10px; }
   .pl-workspace-search .searchFieldPanel { flex-wrap: wrap; }

diff --git a/site/index.html b/site/index.html
@@ -234,15 +234,15 @@
     </header>
 
     <a class="cta" href="workspace-preview.html">
-      <span class="en">Explore the v0.17.7 workspace</span>
-      <span class="zh">体验 v0.17.7 工作区</span>
+      <span class="en">Explore the v0.17.8 workspace</span>
+      <span class="zh">体验 v0.17.8 工作区</span>
     </a>
     <p>
       <span class="en">Interactive preview using the build’s layout code and styles, with fictional courses. Search is simulated; account actions are unavailable. The extension still runs inside the original MyUCLA page.</span>
       <span class="zh">交互预览使用此版本的布局代码和样式，课程数据均为虚构。搜索仅作演示，不执行账户操作。扩展仍在原有 MyUCLA 页面内运行。</span>
     </p>
     <figure>
-      <a href="workspace-preview.html"><img class="shot" src="workspace-preview.png" alt="v0.17.7 with named navigation on the left, fictional course search and section details in the center, and the weekly schedule on the right." /></a>
+      <a href="workspace-preview.html"><img class="shot" src="workspace-preview.png" alt="v0.17.8 with named navigation on the left, fictional course search and section details in the center, and the weekly schedule on the right." /></a>
       <figcaption>
         <span class="en">Actual production presentation code with sample content. On narrow screens, Schedule switches between the calendar and the current module.</span>
         <span class="zh">实际布局代码配合示例内容。在窄屏上，可用“Schedule”切换课表与当前模块。</span>
@@ -398,9 +398,9 @@
       <span class="zh">大概两分钟就好，Chrome 或者任何基于 Chrome 的浏览器都可以。</span>
     </p>
 
-    <a class="cta" href="https://github.com/comet-ctrl/better-myucla-planner/releases/tag/v0.17.7">
-      <span class="en">Download v0.17.7 redesign prerelease</span>
-      <span class="zh">下载 v0.17.7 重新设计预发布版</span>
+    <a class="cta" href="https://github.com/comet-ctrl/better-myucla-planner/releases/tag/v0.17.8">
+      <span class="en">Download v0.17.8 redesign prerelease</span>
+      <span class="zh">下载 v0.17.8 重新设计预发布版</span>
     </a>
 
     <ol class="steps">

diff --git a/HANDOFF.md b/HANDOFF.md
@@ -2,7 +2,45 @@
 
 Last updated: 2026-10-03
 
-Current version: `0.17.7` (functional control audit).
+Current version: `0.17.8` (visible control boundaries).
+
+User requested clear boundaries around the tiny expand/collapse chevrons and
+other focused UI improvements. This is CSS-only plus release/preview metadata;
+no runtime JavaScript, native handlers, status wording or form behavior changed.
+
+Primary fold buttons keep their 38px hit areas and accessible labels/titles,
+with a border, light fill, CSS chevron reflecting aria-expanded, visible hover
+and stronger keyboard focus. Class actions gains a quiet outline and chevron.
+Close details/Information retain 44px targets with visible outlines. Native
+secondary disclosure headers and Help gain quiet boundaries; About/final-exam
+summaries are framed, and open Plan Actions has a distinct active appearance.
+Narrow Find headings put the title/fold above the original link/help. Details
+reserve 56px for Close; long titles have 10px measured clearance.
+
+Typecheck, 315 unit tests and production build pass. Existing production-browser
+checks pass: workspace 4 widths plus lifecycle/long content/printing; Search 7;
+module controls 4 viewports; Plan Actions 4; Details 6; matching preview 4. Final
+visual inspection at 1440/390 covers default/hover/focus/open/closed controls,
+long titles, narrow Find, Details and Information Close; no horizontal clipping,
+script errors or unexpected requests. No new trivial styling tests were added.
+Fictional before/after proof: outputs/control-affordance-v0.17.8/before-after.png.
+Final CSS SHA-256: 3ba0dc5e282b00d29bf52f6a130e6b8ce43805cfd0c98ad4d14e1e54e8be5067.
+
+Installed 0.17.8 in existing Downloads/better-myucla-v0.10.3/dist; all 17 files match
+production by SHA-256. Backup: outputs/installed-backup-v0.17.7. Release ZIP:
+outputs/better-myucla-v0.17.8.zip, SHA-256:
[1 lines of base64/hex data omitted]
+
+User reloaded the extension and refreshed Class Planner. Bounded live inspection
+on the exact ClassPlan URL confirms the new 38px outlined controls and light fill.
+My classes and Find classes collapse/expand correctly, with matching accessible
+labels, content visibility and directional chevrons. No horizontal clipping in
+either view. Restored both expanded and My classes active; tab marked deliverable.
+Previous Optimizer native-response limitation remains unresolved; this cosmetic
+change does not claim to repair it. No live plan/enrollment changes, screenshots
+or account/course content were collected in this turn.
+
+## v0.17.7 historical record
 
 User reported Final exam week and asked for every page button to be checked.
 Live reproduction found a 640px finals table inside a roughly 200px course list,

diff --git a/README.md b/README.md
@@ -9,12 +9,12 @@
 An unofficial Chrome extension for the MyUCLA Class Planner.
 
 [Install guide](site/index.html) ·
-[v0.17.7 redesign prerelease](https://github.com/comet-ctrl/better-myucla-planner/releases/tag/v0.17.7) ·
+[v0.17.8 redesign prerelease](https://github.com/comet-ctrl/better-myucla-planner/releases/tag/v0.17.8) ·
 [Contributing](CONTRIBUTING.md)
 
 </div>
 
-<img src="site/workspace-preview.png" width="100%" alt="v0.17.7 workspace with fictional course browsing beside a weekly schedule.">
+<img src="site/workspace-preview.png" width="100%" alt="v0.17.8 workspace with fictional course browsing beside a weekly schedule.">
 
 The optional workspace provides named destinations for My classes, Find classes,
 Optimizer, Study list, Personal entries and Information & help. The original
@@ -202,7 +202,7 @@ account and without touching a real plan. Screenshots land in `harness/shots/`.
 Every version bump updates the status line below, adds a `CHANGELOG.md` entry,
 and refreshes `HANDOFF.md` if the architecture moved.
 
-**Status:** working local beta, `0.17.7` workspace redesign beta. Not on the Chrome Web Store.
+**Status:** working local beta, `0.17.8` workspace redesign beta. Not on the Chrome Web Store.
 
 The popup shows the installed version. Tidy remains opt-in. Named navigation
 opens My classes, Find classes, Optimizer, Study list and Personal entries inside

diff --git a/CHANGELOG.md b/CHANGELOG.md
@@ -1,5 +1,16 @@
 # Changelog
 
+## 0.17.8 — 2026-10-03 (clearer controls)
+
+- Give expand/collapse buttons a visible outline, light background and crisp
+  state-aware chevron, with distinct hover and keyboard focus.
+- Outline Class actions, close buttons, native module disclosures and Help;
+  frame the About/final-exam disclosures and highlight open menus.
+- Separate the search heading from its Help/enrollment links in narrow panes.
+  Reserve enough title space for the Close details button on long course names.
+- Keep native handlers, statuses, selection, save behavior and UCLA navigation
+  unchanged. This update changes presentation only.
+
 ## 0.17.7 — 2026-10-03 (control audit)
 
 - Open Final exam week in a bounded, keyboard-accessible panel instead of the
